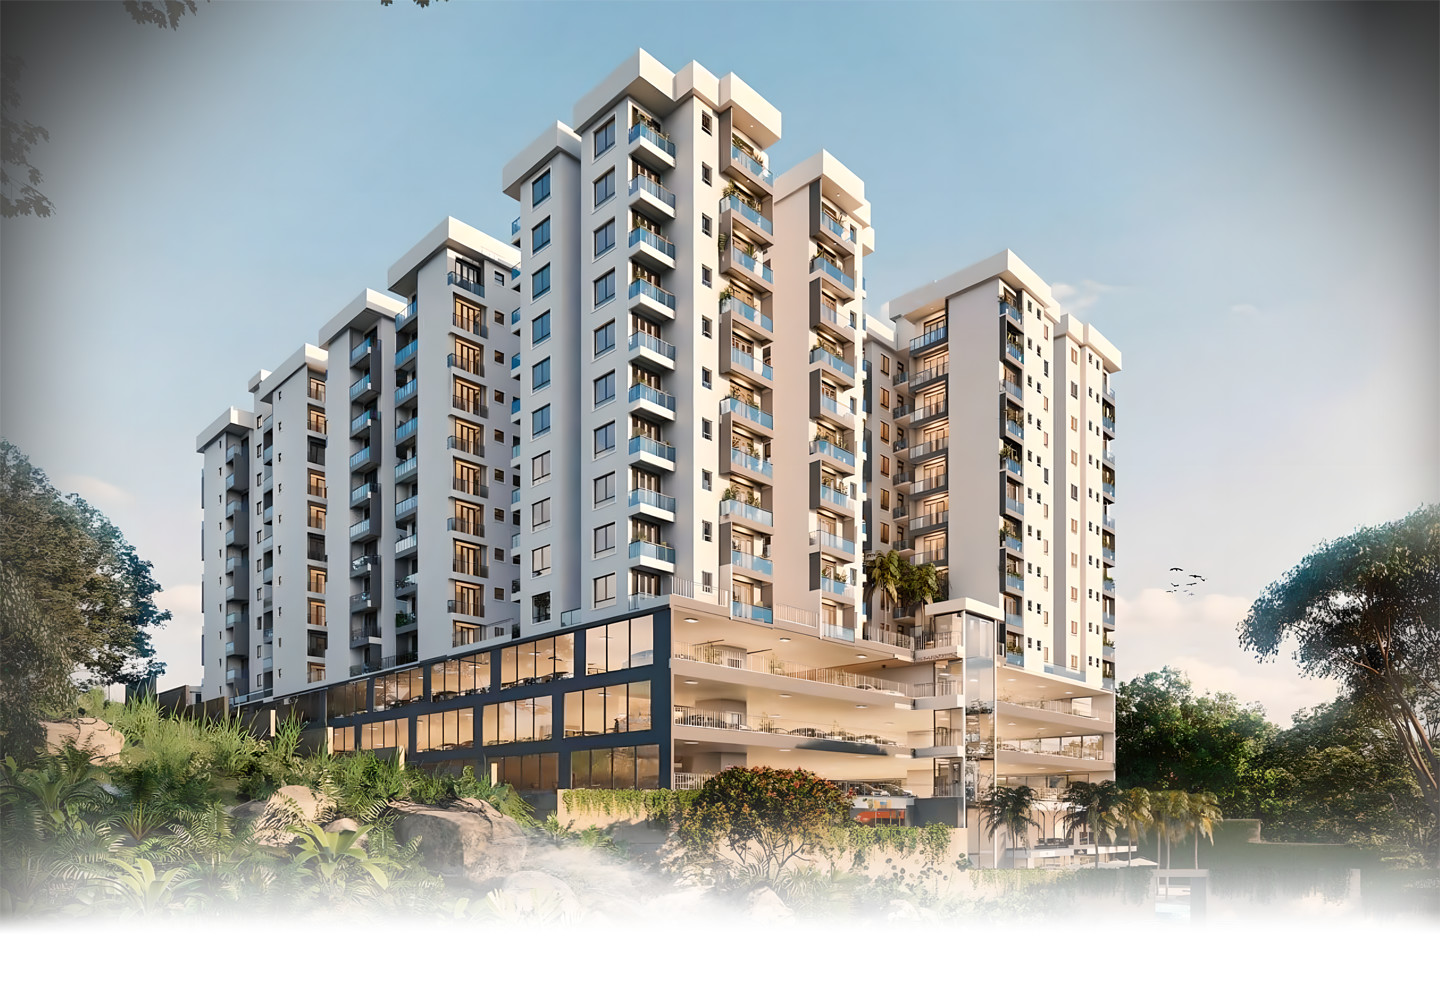
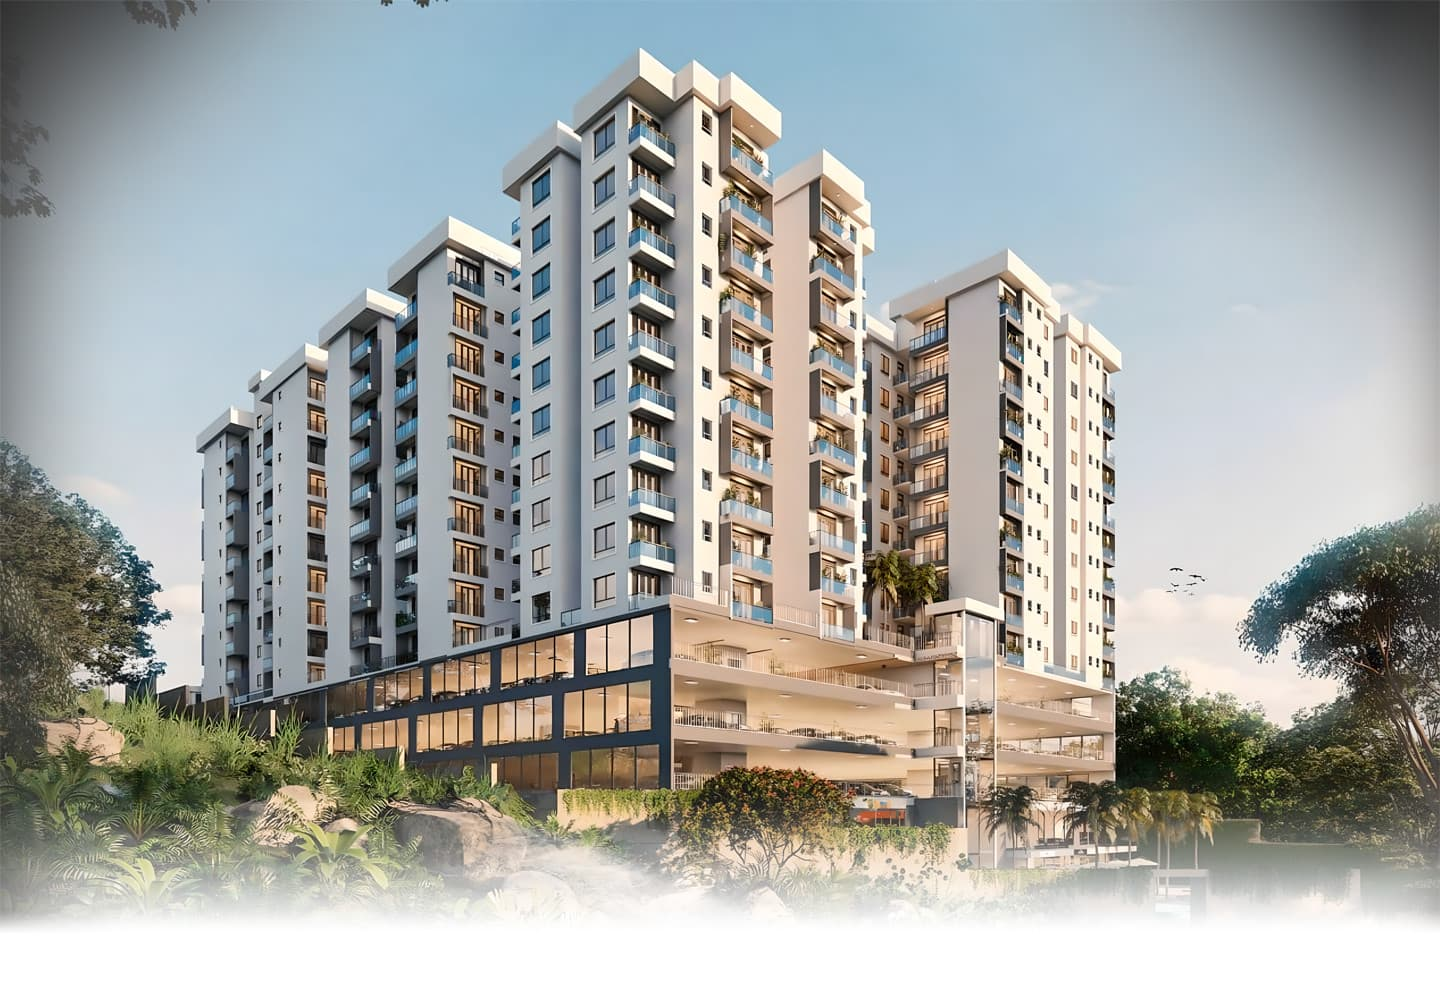
optimized images

diff --git a/src/components/Footer.js b/src/components/Footer.js
@@ -10,6 +10,10 @@ function Footer() {
           <a className='mb-6 lg:mb-0 lg:self-center' href='https://github.com/'>
             <img className = " h-9 lg:h-18" src={Logo} alt="" loading="lazy"/>
           </a>
+          <ul>
+            <li>location</li>
+            <li>contact</li>
+          </ul>
           <div className='flex gap-x-4 justify-center lg:justify-end'>
             {footer.social.map((item, index) => {
               return (
